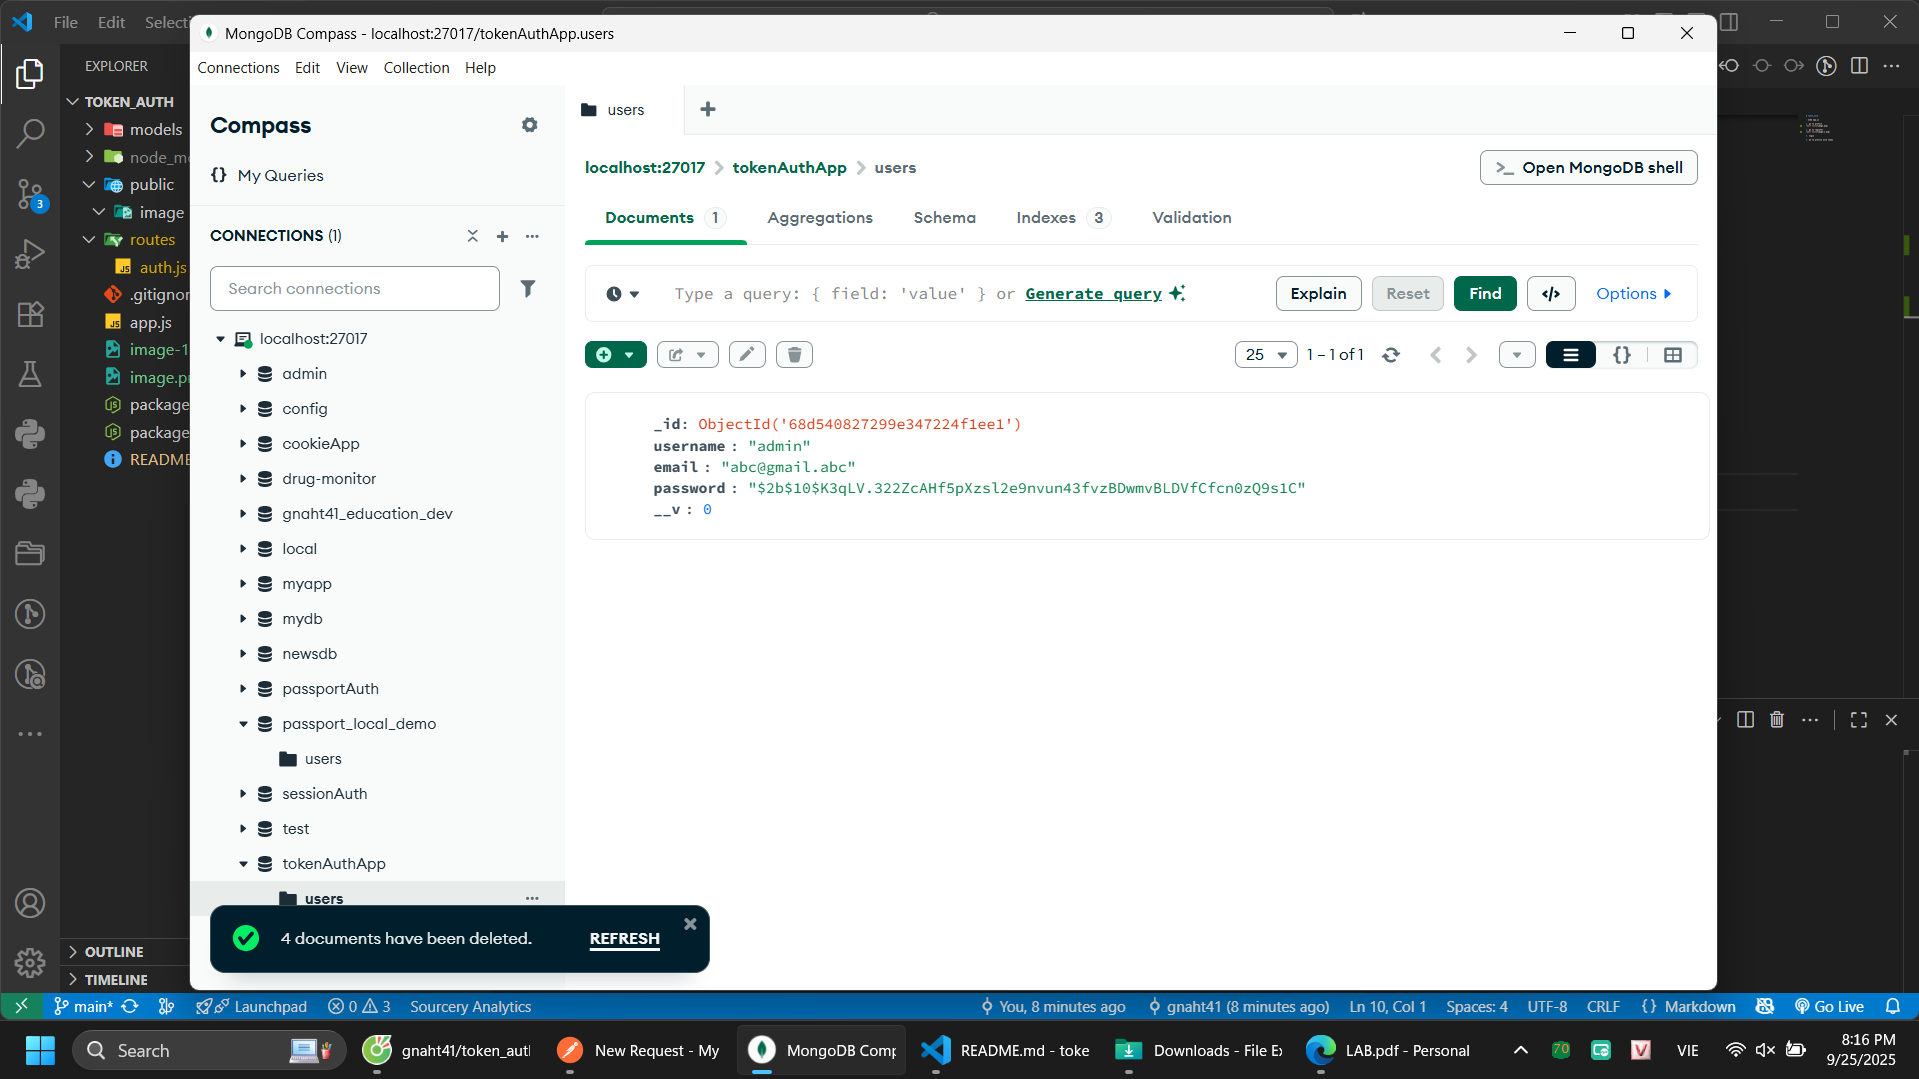
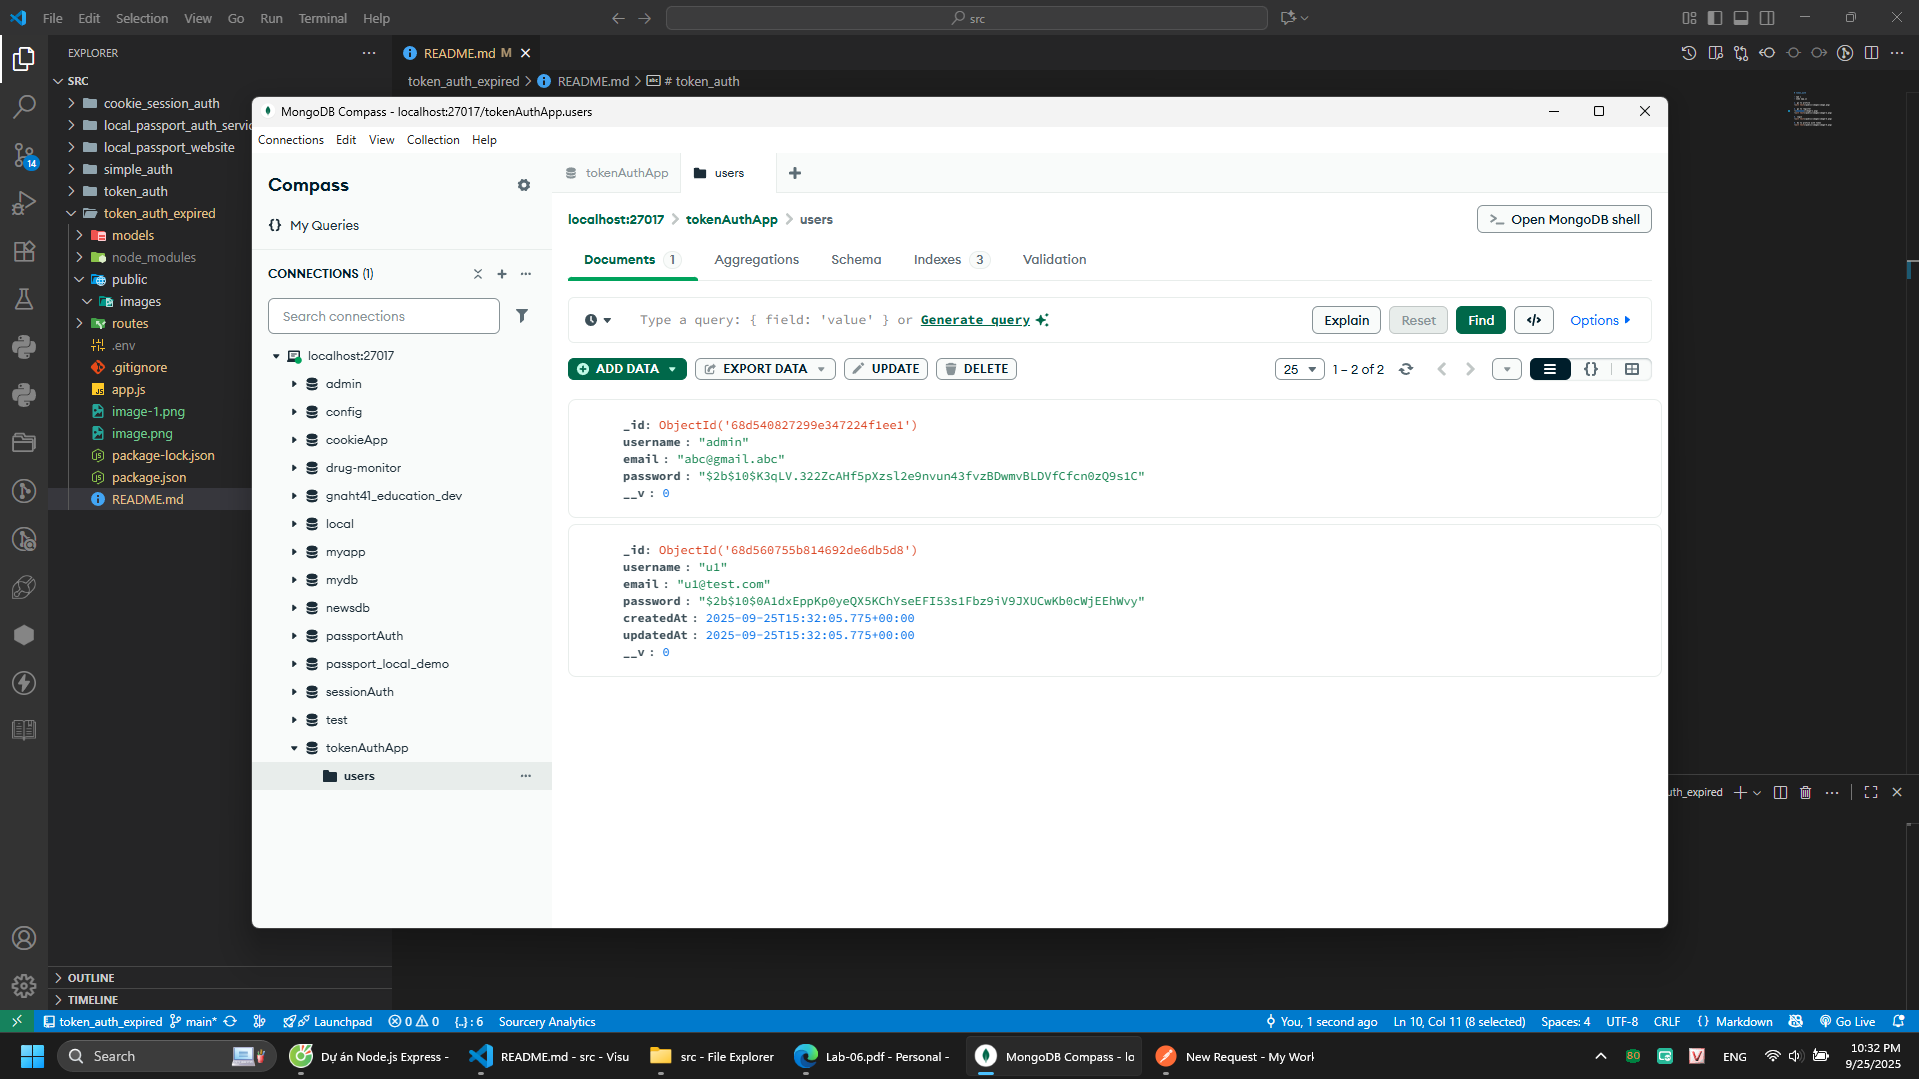
Trả lời câu hỏi cuối

diff --git a/routes/auth.js b/routes/auth.js
@@ -1,3 +1,6 @@
+// routes/auth.js
+require('dotenv').config();
+
 const express = require('express');
 const bcrypt = require('bcryptjs');
 const jwt = require('jsonwebtoken');
@@ -5,10 +8,24 @@ const User = require('../models/User');
 
 const router = express.Router();
 
+const JWT_SECRET = process.env.JWT_SECRET || 'secretKey';
+const ACCESS_TOKEN_TTL = process.env.ACCESS_TOKEN_TTL || '30s'; // '10s' để test hết hạn nhanh
+
 // Register
 router.post('/register', async (req, res) => {
   try {
     const { username, email, password } = req.body;
+
+    // Validate input (tối thiểu)
+    if (!username || !email || !password) {
+      return res.status(400).json({ error: 'Missing username, email or password' });
+    }
+
+    // Check duplicate email
+    const existing = await User.findOne({ email });
+    if (existing) {
+      return res.status(409).json({ error: 'Email already registered' });
+    }
 
     // Hash password
     const hashedPassword = await bcrypt.hash(password, 10);
@@ -16,9 +33,21 @@ router.post('/register', async (req, res) => {
     const newUser = new User({ username, email, password: hashedPassword });
     await newUser.save();
 
-    res.json({ message: 'User registered successfully!' });
+    // Tạo access token có TTL
+    const token = jwt.sign({ id: newUser._id }, JWT_SECRET, { expiresIn: ACCESS_TOKEN_TTL });
+
+    res.status(201).json({
+      message: 'User registered successfully',
+      token,
+      user: {
+        id: newUser._id,
+        username: newUser.username,
+        email: newUser.email,
+      }
+    });
   } catch (err) {
-    res.status(500).json({ error: err.message });
+    console.error('Register error:', err);
+    res.status(500).json({ error: 'Internal server error' });
   }
 });
 
@@ -27,41 +56,68 @@ router.post('/login', async (req, res) => {
   try {
     const { email, password } = req.body;
 
+    // Validate
+    if (!email || !password) {
+      return res.status(400).json({ error: 'Missing email or password' });
+    }
+
     // Find user
     const user = await User.findOne({ email });
-    if (!user) return res.status(400).json({ error: 'User not found' });
+    if (!user) return res.status(401).json({ error: 'Invalid credentials' });
 
     // Compare password
     const isMatch = await bcrypt.compare(password, user.password);
-    if (!isMatch) return res.status(400).json({ error: 'Invalid credentials' });
+    if (!isMatch) return res.status(401).json({ error: 'Invalid credentials' });
 
-    // Generate token
-    const token = jwt.sign({ id: user._id }, 'secretKey', { expiresIn: '1h' });
+    // Sign token với TTL
+    const token = jwt.sign({ id: user._id }, JWT_SECRET, { expiresIn: ACCESS_TOKEN_TTL });
 
-    res.json({ token });
+    res.json({
+      message: 'Login successful',
+      token,
+      user: {
+        id: user._id,
+        username: user.username,
+        email: user.email,
+      }
+    });
   } catch (err) {
-    res.status(500).json({ error: err.message });
+    console.error('Login error:', err);
+    res.status(500).json({ error: 'Internal server error' });
   }
 });
 
-// Middleware to verify token
+// Auth middleware
 function authMiddleware(req, res, next) {
-  const token = req.header('Authorization')?.replace('Bearer ', '');
-  if (!token) return res.status(401).json({ error: 'Access denied' });
+  const header = req.headers['authorization'] || '';
+  const token = header.startsWith('Bearer ') ? header.slice(7) : null;
+
+  if (!token) {
+    return res.status(401).json({ error: 'No token provided' });
+  }
 
   try {
-    const verified = jwt.verify(token, 'secretKey');
-    req.user = verified;
-    next();
-  } catch {
-    res.status(400).json({ error: 'Invalid token' });
+    const verified = jwt.verify(token, JWT_SECRET);
+    req.user = verified; // { id: ... }
+    return next();
+  } catch (err) {
+    if (err.name === 'TokenExpiredError') {
+      return res.status(401).json({ error: 'Token expired' });
+    }
+    return res.status(401).json({ error: 'Invalid token' });
   }
 }
 
 // Protected route
 router.get('/profile', authMiddleware, async (req, res) => {
-  const user = await User.findById(req.user.id).select('-password');
-  res.json(user);
+  try {
+    const user = await User.findById(req.user.id).select('-password');
+    if (!user) return res.status(404).json({ error: 'User not found' });
+    res.json(user);
+  } catch (err) {
+    console.error('Profile error:', err);
+    res.status(500).json({ error: 'Internal server error' });
+  }
 });
 
 module.exports = router;

diff --git a/app.js b/app.js
@@ -1,3 +1,6 @@
+// app.js
+require('dotenv').config();
+
 const express = require('express');
 const mongoose = require('mongoose');
 const bodyParser = require('body-parser');
@@ -13,8 +16,11 @@ app.use(bodyParser.json());
 app.use('/api/auth', authRoutes);
 
 // Connect DB & Start server
-mongoose.connect('mongodb://127.0.0.1:27017/tokenAuthApp')
+const MONGODB_URI = process.env.MONGODB_URI || 'mongodb://127.0.0.1:27017/tokenAuthApp';
+const PORT = process.env.PORT || 3000;
+
+mongoose.connect(MONGODB_URI)
   .then(() => {
-    app.listen(3000, () => console.log('Server running on http://localhost:3000'));
+    app.listen(PORT, () => console.log(`Server running on http://localhost:${PORT}`));
   })
   .catch(err => console.error(err));

diff --git a/models/User.js b/models/User.js
@@ -1,9 +1,13 @@
+// models/User.js
 const mongoose = require('mongoose');
 
-const userSchema = new mongoose.Schema({
-  username: { type: String, required: true, unique: true },
-  email:    { type: String, required: true, unique: true },
-  password: { type: String, required: true }
-});
+const userSchema = new mongoose.Schema(
+  {
+    username: { type: String, required: true, trim: true },
+    email: { type: String, required: true, unique: true, lowercase: true, trim: true },
+    password: { type: String, required: true }
+  },
+  { timestamps: true }
+);
 
 module.exports = mongoose.model('User', userSchema);

diff --git a/README.md b/README.md
@@ -15,3 +15,16 @@
 
 4. Go to profile with token
 ![alt text](public/images/image-4.png)
+
+## Question: Modify code to make token expried?
+- Để hạn là 10s
+![alt text](public/images/image-5.png)
+![alt text](public/images/image-6.png)
+
+- Khi hết hạn 
+![alt text](public/images/image-7.png)
+
+- Gia hạn lên 30s
+![alt text](public/images/image-8.png)
+![alt text](public/images/image-9.png)
+![alt text](public/images/image-10.png)
